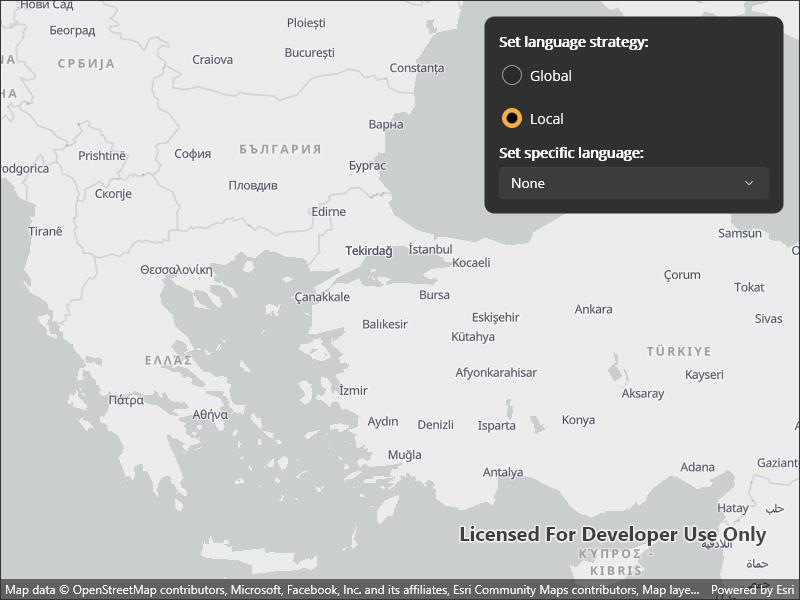
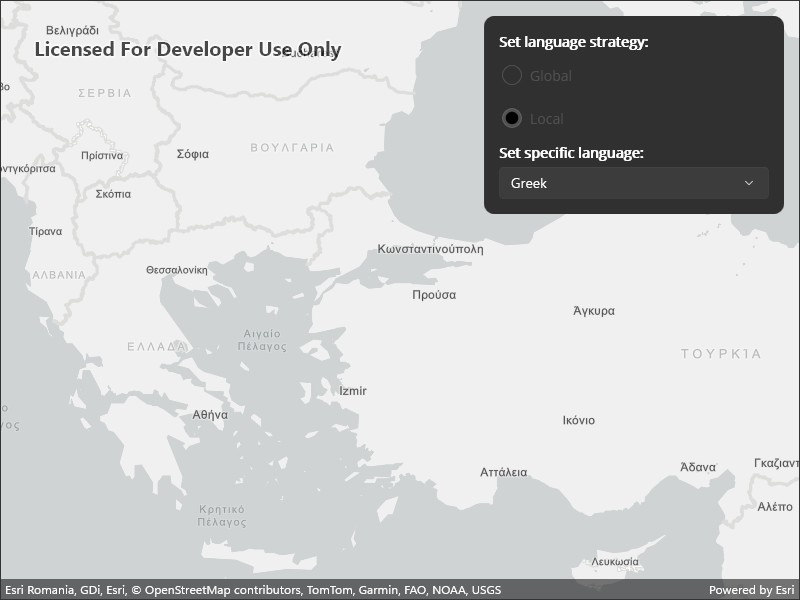
Basemap style parameters (#1641)

diff --git a/src/WinUI/ArcGIS.WinUI.Viewer/Samples/Map/ConfigureBasemapStyleParameters/ConfigureBasemapStyleParameters.xaml.cs b/src/WinUI/ArcGIS.WinUI.Viewer/Samples/Map/ConfigureBasemapStyleParameters/ConfigureBasemapStyleParameters.xaml.cs
@@ -19,7 +19,7 @@ namespace ArcGIS.WinUI.Samples.ConfigureBasemapStyleParameters
         name: "Configure basemap style parameters",
         category: "Map",
         description: "Apply basemap style parameters customization for a basemap, such as displaying all labels in a specific language or displaying every label in their corresponding local language.",
-        instructions: "This sample showcases the workflow of configuring basemap style parameters by displaying a basemap with labels in different languages and launches with a `Viewpoint` set over Bulgaria, Greece and Turkey, as they use three different alphabets: Cyrillic, Greek, and Latin, respectively. By default, the `BasemapStyleLanguageStrategy` is set to `Local` which displays all labels in their corresponding local language. This can be changed to `Global`, which displays all labels in English. The `SpecificLanguage` setting sets all labels to a selected language and overrides the `BasemapStyleLanguageStrategy` settings.",
+        instructions: "This sample showcases the workflow of configuring basemap style parameters by displaying a basemap with labels in different languages and launches with a `Viewpoint` near Bulgaria, Greece and Turkey, as they use three different alphabets: Cyrillic, Greek, and Latin, respectively. By default, the `BasemapStyleLanguageStrategy` is set to `Local`, which displays all labels in their corresponding local language. This can be changed to `Global`, which displays all labels in English. The `SpecificLanguage` setting sets all labels to a selected language and overrides the `BasemapStyleLanguageStrategy` settings.",
         tags: new[] { "basemap style", "language", "language strategy", "map", "point", "viewpoint" })]
     [ArcGIS.Samples.Shared.Attributes.OfflineData()]
     public partial class ConfigureBasemapStyleParameters
@@ -83,7 +83,7 @@ namespace ArcGIS.WinUI.Samples.ConfigureBasemapStyleParameters
                     break;
             }
 
-            MyMapView.Map.Basemap = new Basemap(BasemapStyle.OpenLightGray, basemapStyleParameters);
+            MyMapView.Map.Basemap = new Basemap(BasemapStyle.ArcGISLightGray, basemapStyleParameters);
         }
 
         private void LanguagePicker_SelectionChanged(object sender, SelectionChangedEventArgs e)

diff --git a/src/WPF/WPF.Viewer/Samples/Map/ConfigureBasemapStyleParameters/ConfigureBasemapStyleParameters.xaml.cs b/src/WPF/WPF.Viewer/Samples/Map/ConfigureBasemapStyleParameters/ConfigureBasemapStyleParameters.xaml.cs
@@ -19,7 +19,7 @@ namespace ArcGIS.WPF.Samples.ConfigureBasemapStyleParameters
         name: "Configure basemap style parameters",
         category: "Map",
         description: "Apply basemap style parameters customization for a basemap, such as displaying all labels in a specific language or displaying every label in their corresponding local language.",
-        instructions: "This sample showcases the workflow of configuring basemap style parameters by displaying a basemap with labels in different languages and launches with a `Viewpoint` set over Bulgaria, Greece and Turkey, as they use three different alphabets: Cyrillic, Greek, and Latin, respectively. By default, the `BasemapStyleLanguageStrategy` is set to `Local` which displays all labels in their corresponding local language. This can be changed to `Global`, which displays all labels in English. The `SpecificLanguage` setting sets all labels to a selected language and overrides the `BasemapStyleLanguageStrategy` settings.",
+        instructions: "This sample showcases the workflow of configuring basemap style parameters by displaying a basemap with labels in different languages and launches with a `Viewpoint` near Bulgaria, Greece and Turkey, as they use three different alphabets: Cyrillic, Greek, and Latin, respectively. By default, the `BasemapStyleLanguageStrategy` is set to `Local`, which displays all labels in their corresponding local language. This can be changed to `Global`, which displays all labels in English. The `SpecificLanguage` setting sets all labels to a selected language and overrides the `BasemapStyleLanguageStrategy` settings.",
         tags: new[] { "basemap style", "language", "language strategy", "map", "point", "viewpoint" })]
     [ArcGIS.Samples.Shared.Attributes.OfflineData()]
     public partial class ConfigureBasemapStyleParameters
@@ -83,7 +83,7 @@ namespace ArcGIS.WPF.Samples.ConfigureBasemapStyleParameters
                     break;
             }
 
-            MyMapView.Map.Basemap = new Basemap(BasemapStyle.OpenLightGray, basemapStyleParameters);
+            MyMapView.Map.Basemap = new Basemap(BasemapStyle.ArcGISLightGray, basemapStyleParameters);
         }
 
         private void LanguagePicker_SelectionChanged(object sender, SelectionChangedEventArgs e)

diff --git a/src/MAUI/Maui.Samples/Samples/Map/ConfigureBasemapStyleParameters/ConfigureBasemapStyleParameters.xaml.cs b/src/MAUI/Maui.Samples/Samples/Map/ConfigureBasemapStyleParameters/ConfigureBasemapStyleParameters.xaml.cs
@@ -17,7 +17,7 @@ namespace ArcGIS.Samples.ConfigureBasemapStyleParameters
         name: "Configure basemap style parameters",
         category: "Map",
         description: "Apply basemap style parameters customization for a basemap, such as displaying all labels in a specific language or displaying every label in their corresponding local language.",
-        instructions: "This sample showcases the workflow of configuring basemap style parameters by displaying a basemap with labels in different languages and launches with a `Viewpoint` set over Bulgaria, Greece and Turkey, as they use three different alphabets: Cyrillic, Greek, and Latin, respectively. By default, the `BasemapStyleLanguageStrategy` is set to `Local` which displays all labels in their corresponding local language. This can be changed to `Global`, which displays all labels in English. The `SpecificLanguage` setting sets all labels to a selected language and overrides the `BasemapStyleLanguageStrategy` settings.",
+        instructions: "This sample showcases the workflow of configuring basemap style parameters by displaying a basemap with labels in different languages and launches with a `Viewpoint` near Bulgaria, Greece and Turkey, as they use three different alphabets: Cyrillic, Greek, and Latin, respectively. By default, the `BasemapStyleLanguageStrategy` is set to `Local`, which displays all labels in their corresponding local language. This can be changed to `Global`, which displays all labels in English. The `SpecificLanguage` setting sets all labels to a selected language and overrides the `BasemapStyleLanguageStrategy` settings.",
         tags: new[] { "basemap style", "language", "language strategy", "map", "point", "viewpoint" })]
     [ArcGIS.Samples.Shared.Attributes.OfflineData()]
     public partial class ConfigureBasemapStyleParameters
@@ -81,7 +81,7 @@ namespace ArcGIS.Samples.ConfigureBasemapStyleParameters
                     break;
             }
 
-            MyMapView.Map.Basemap = new Basemap(BasemapStyle.OpenLightGray, basemapStyleParameters);
+            MyMapView.Map.Basemap = new Basemap(BasemapStyle.ArcGISLightGray, basemapStyleParameters);
         }
 
         private void LanguagePicker_SelectionChanged(object sender, EventArgs e)

diff --git a/src/MAUI/Maui.Samples/Samples/Map/ConfigureBasemapStyleParameters/readme.md b/src/MAUI/Maui.Samples/Samples/Map/ConfigureBasemapStyleParameters/readme.md
@@ -10,7 +10,7 @@ When creating an application that's used in multiple countries, basemaps can ref
 
 ## How to use the sample
 
-This sample showcases the workflow of configuring basemap style parameters by displaying a basemap with labels in different languages and launches with a `Viewpoint` set over Bulgaria, Greece and Turkey, as they use three different alphabets: Cyrillic, Greek, and Latin, respectively. By default, the `BasemapStyleLanguageStrategy` is set to `Local` which displays all labels in their corresponding local language. This can be changed to `Global`, which displays all labels in English. The `SpecificLanguage` setting sets all labels to a selected language and overrides the `BasemapStyleLanguageStrategy` settings.
+This sample showcases the workflow of configuring basemap style parameters by displaying a basemap with labels in different languages and launches with a `Viewpoint` near Bulgaria, Greece and Turkey, as they use three different alphabets: Cyrillic, Greek, and Latin, respectively. By default, the `BasemapStyleLanguageStrategy` is set to `Local`, which displays all labels in their corresponding local language. This can be changed to `Global`, which displays all labels in English. The `SpecificLanguage` setting sets all labels to a selected language and overrides the `BasemapStyleLanguageStrategy` settings.
 
 Pan and zoom to navigate the map and see how different labels are displayed in these countries depending on the selected `BasemapStyleLanguageStrategy` and `SpecificLanguage`: all English, all Greek, all Bulgarian, all Turkish, or each their own.
 
@@ -35,7 +35,11 @@ Pan and zoom to navigate the map and see how different labels are displayed in t
 
 ## About the data
 
-The main data for this sample is the `BasemapStyle` which include basemaps that support both language localization and global language setting. The supported languages, along with their language code, can be found in the [API's documentation](https://developers.arcgis.com/rest/basemap-styles/#languages).
+The main data for this sample is the `BasemapStyle`, which includes basemaps that support both language localization and global language setting. The supported languages, along with their language code, can be found in the [API's documentation](https://developers.arcgis.com/rest/basemap-styles/languages/).
+
+## Additional information
+
+For ArcGIS Basemap styles, language localization becomes visible when you zoom in closer.
 
 ## Tags
 

diff --git a/src/WPF/WPF.Viewer/Samples/Map/ConfigureBasemapStyleParameters/readme.md b/src/WPF/WPF.Viewer/Samples/Map/ConfigureBasemapStyleParameters/readme.md
@@ -10,7 +10,7 @@ When creating an application that's used in multiple countries, basemaps can ref
 
 ## How to use the sample
 
-This sample showcases the workflow of configuring basemap style parameters by displaying a basemap with labels in different languages and launches with a `Viewpoint` set over Bulgaria, Greece and Turkey, as they use three different alphabets: Cyrillic, Greek, and Latin, respectively. By default, the `BasemapStyleLanguageStrategy` is set to `Local` which displays all labels in their corresponding local language. This can be changed to `Global`, which displays all labels in English. The `SpecificLanguage` setting sets all labels to a selected language and overrides the `BasemapStyleLanguageStrategy` settings.
+This sample showcases the workflow of configuring basemap style parameters by displaying a basemap with labels in different languages and launches with a `Viewpoint` near Bulgaria, Greece and Turkey, as they use three different alphabets: Cyrillic, Greek, and Latin, respectively. By default, the `BasemapStyleLanguageStrategy` is set to `Local`, which displays all labels in their corresponding local language. This can be changed to `Global`, which displays all labels in English. The `SpecificLanguage` setting sets all labels to a selected language and overrides the `BasemapStyleLanguageStrategy` settings.
 
 Pan and zoom to navigate the map and see how different labels are displayed in these countries depending on the selected `BasemapStyleLanguageStrategy` and `SpecificLanguage`: all English, all Greek, all Bulgarian, all Turkish, or each their own.
 
@@ -35,7 +35,11 @@ Pan and zoom to navigate the map and see how different labels are displayed in t
 
 ## About the data
 
-The main data for this sample is the `BasemapStyle` which include basemaps that support both language localization and global language setting. The supported languages, along with their language code, can be found in the [API's documentation](https://developers.arcgis.com/rest/basemap-styles/#languages).
+The main data for this sample is the `BasemapStyle`, which includes basemaps that support both language localization and global language setting. The supported languages, along with their language code, can be found in the [API's documentation](https://developers.arcgis.com/rest/basemap-styles/languages/).
+
+## Additional information
+
+For ArcGIS Basemap styles, language localization becomes visible when you zoom in closer.
 
 ## Tags
 

diff --git a/src/WinUI/ArcGIS.WinUI.Viewer/Samples/Map/ConfigureBasemapStyleParameters/readme.md b/src/WinUI/ArcGIS.WinUI.Viewer/Samples/Map/ConfigureBasemapStyleParameters/readme.md
@@ -10,7 +10,7 @@ When creating an application that's used in multiple countries, basemaps can ref
 
 ## How to use the sample
 
-This sample showcases the workflow of configuring basemap style parameters by displaying a basemap with labels in different languages and launches with a `Viewpoint` set over Bulgaria, Greece and Turkey, as they use three different alphabets: Cyrillic, Greek, and Latin, respectively. By default, the `BasemapStyleLanguageStrategy` is set to `Local` which displays all labels in their corresponding local language. This can be changed to `Global`, which displays all labels in English. The `SpecificLanguage` setting sets all labels to a selected language and overrides the `BasemapStyleLanguageStrategy` settings.
+This sample showcases the workflow of configuring basemap style parameters by displaying a basemap with labels in different languages and launches with a `Viewpoint` near Bulgaria, Greece and Turkey, as they use three different alphabets: Cyrillic, Greek, and Latin, respectively. By default, the `BasemapStyleLanguageStrategy` is set to `Local`, which displays all labels in their corresponding local language. This can be changed to `Global`, which displays all labels in English. The `SpecificLanguage` setting sets all labels to a selected language and overrides the `BasemapStyleLanguageStrategy` settings.
 
 Pan and zoom to navigate the map and see how different labels are displayed in these countries depending on the selected `BasemapStyleLanguageStrategy` and `SpecificLanguage`: all English, all Greek, all Bulgarian, all Turkish, or each their own.
 
@@ -35,7 +35,11 @@ Pan and zoom to navigate the map and see how different labels are displayed in t
 
 ## About the data
 
-The main data for this sample is the `BasemapStyle` which include basemaps that support both language localization and global language setting. The supported languages, along with their language code, can be found in the [API's documentation](https://developers.arcgis.com/rest/basemap-styles/#languages).
+The main data for this sample is the `BasemapStyle`, which includes basemaps that support both language localization and global language setting. The supported languages, along with their language code, can be found in the [API's documentation](https://developers.arcgis.com/rest/basemap-styles/languages/).
+
+## Additional information
+
+For ArcGIS Basemap styles, language localization becomes visible when you zoom in closer.
 
 ## Tags
 
